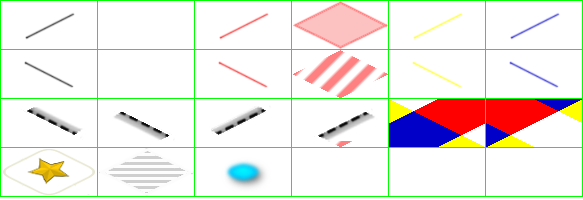
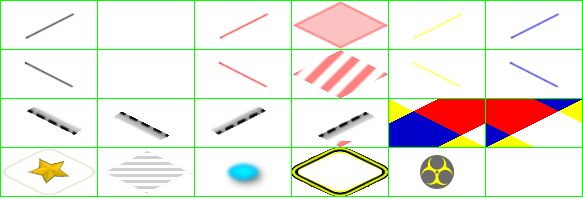
Fix hidden city pollution, once and for all.
1. Ctrl-alt-p "forced on" for a city centre tle.
2. Selectionable like before for non-city tiles
3. Change graphic to a ring around the tile and an icon on top for unmistakable visibility.

Changed region(s): [[0.494, 0.72, 0.6792, 0.99], [0.7101, 0.78, 0.8027, 0.96]]

diff --git a/freeciv-web/src/main/webapp/javascript/2dcanvas/tilespec.js b/freeciv-web/src/main/webapp/javascript/2dcanvas/tilespec.js
@@ -311,8 +311,8 @@ function fill_sprite_array(layer, ptile, pedge, pcorner, punit, pcity, citymode)
         if (tile_has_extra(ptile, EXTRA_POLLUTION)) {
           sprite_array.push({"key" :
                               tileset_extra_id_graphic_tag(EXTRA_POLLUTION)});
-          if (draw_highlighted_pollution)
-            sprite_array.push(get_city_invalid_worked_sprite());
+          //if (draw_highlighted_pollution)
+          //  sprite_array.push(get_user_highlighted_pollution_sprite());
         }
 
         if (tile_has_extra(ptile, EXTRA_FALLOUT)) {
@@ -325,12 +325,23 @@ function fill_sprite_array(layer, ptile, pedge, pcorner, punit, pcity, citymode)
       }
     break;
 
+    // City Layer  AND  Highlight Polluted Tiles
     case LAYER_CITY1:
+      var polluted = tile_has_extra(ptile, EXTRA_POLLUTION);
+
+      // Due to visibility difficulty, city tiles ALWAYS show highlighted pollution
       if (pcity != null) {
-        sprite_array.push(get_city_sprite(pcity));
+        if (polluted) sprite_array.push({"key" : "grid.pollute_ring"}); //ring under city "wraps" around it
+        sprite_array.push(get_city_sprite(pcity));                      //city
+        if (polluted) sprite_array.push({"key" : "grid.pollute_icon"}); //pollution icon clearly over top
 	      if (pcity['unhappy']) {
           sprite_array.push({"key" : "city.disorder"});
-	      }
+        }
+      }
+      // Otherwise show highlighted pollution only if user pref is on:
+      else if (draw_highlighted_pollution && polluted) {
+        sprite_array.push({"key" : "grid.pollute_ring"});
+        sprite_array.push({"key" : "grid.pollute_icon"});
       }
     break;
 

diff --git a/freeciv-web/src/main/webapp/javascript/tile.js b/freeciv-web/src/main/webapp/javascript/tile.js
@@ -45,7 +45,7 @@ function tile_get_known(ptile)
 **************************************************************************/
 function tile_has_extra(ptile, extra)
 {
-  if (ptile['extras'] == null) {
+  if (!ptile || ptile['extras'] == null) {
     return false;
   }
 
